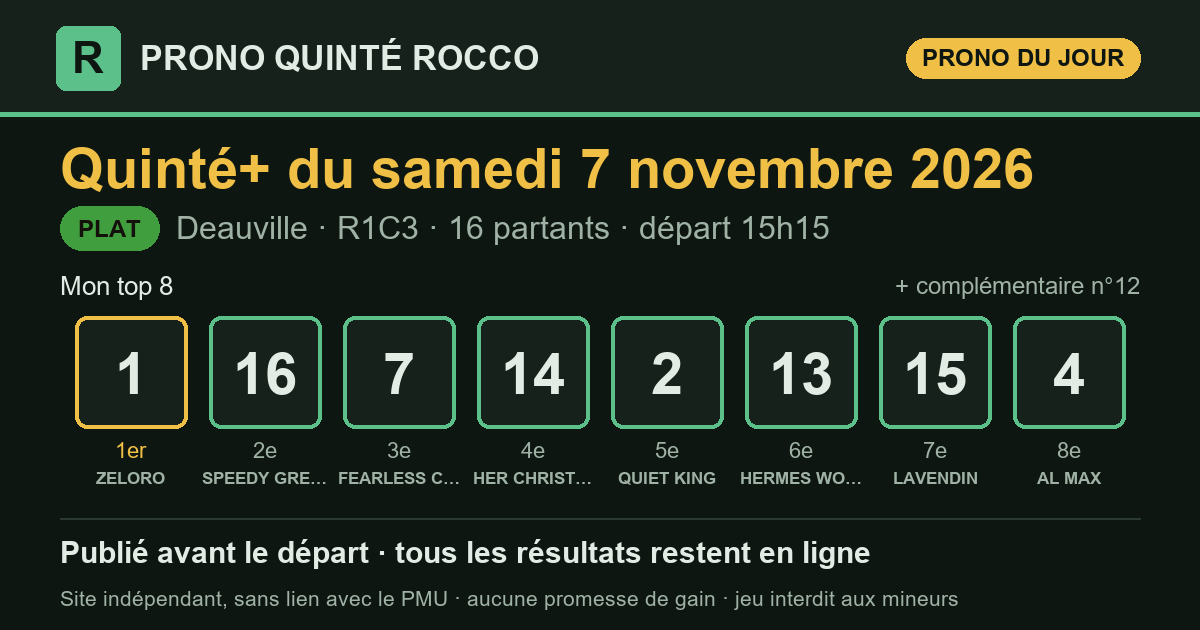
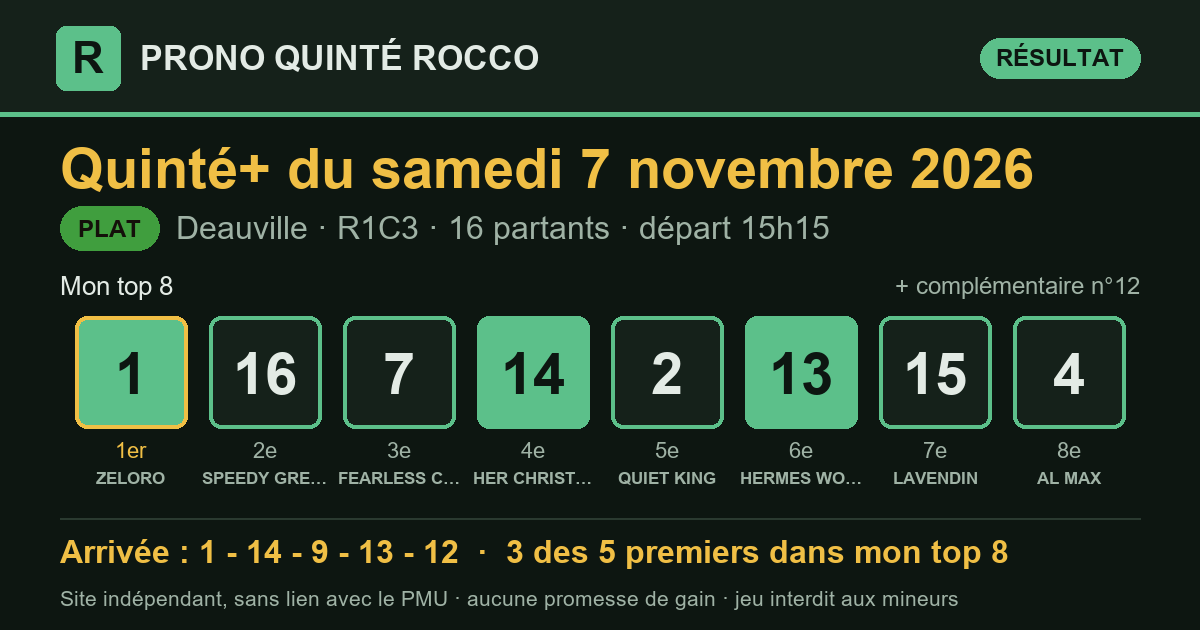
Prono Quinté+ 2026-11-07 Deauville R1C3 — publié le 07/11/2026 18:46 (heure de Paris)

diff --git a/partants.html b/partants.html
@@ -3,7 +3,7 @@
 <head>
 <meta charset="utf-8">
 <meta name="viewport" content="width=device-width, initial-scale=1, viewport-fit=cover">
-<title>Partants du Quinté+ du samedi 7 novembre 2026 — Prono Quinté Rocco</title>
+<title>Partants du Quinté+ du dimanche 8 novembre 2026 — Prono Quinté Rocco</title>
 <meta name="description" content="Les partants du prochain Quinté+ (programme officiel du PMU), avec le rang de chaque cheval dans mon prono et les liens vers les pronostics de la presse.">
 <link rel="canonical" href="https://prono-quinte-rocco.fr/partants.html">
 <link rel="stylesheet" href="style.css?v=c0ffb0f4">
@@ -13,7 +13,7 @@
 <meta property="og:site_name" content="Prono Quinté Rocco">
 <meta property="og:locale" content="fr_FR">
 <meta property="og:type" content="website">
-<meta property="og:title" content="Partants du Quinté+ du samedi 7 novembre 2026 — Prono Quinté Rocco">
+<meta property="og:title" content="Partants du Quinté+ du dimanche 8 novembre 2026 — Prono Quinté Rocco">
 <meta property="og:description" content="Les partants du prochain Quinté+ (programme officiel du PMU), avec le rang de chaque cheval dans mon prono et les liens vers les pronostics de la presse.">
 <meta property="og:url" content="https://prono-quinte-rocco.fr/partants.html">
 <meta name="twitter:card" content="summary">
@@ -29,100 +29,100 @@
   <p class="surtitre">Programme officiel du PMU</p>
   <h1>Les partants du prochain Quinté+</h1>
   <div class="fiche-course">
-    <p class="fiche-date">Samedi 7 novembre 2026</p>
-    <div class="fiche-rc"><span class="pastille" title="Réunion 1">R1</span><span class="pastille" title="Course 3">C3</span><span class="fiche-nom">Prix de l&#x27;Operation Epsom</span></div>
-    <p class="meta"><span class="type t-plat">Plat</span>Deauville · 1 900 m · 16 partants</p>
+    <p class="fiche-date">Dimanche 8 novembre 2026</p>
+    <div class="fiche-rc"><span class="pastille" title="Réunion 1">R1</span><span class="pastille" title="Course 5">C5</span><span class="fiche-nom">Prix Sagaro</span></div>
+    <p class="meta"><span class="type t-plat">Plat</span>Saint-Cloud · 3 100 m · 15 partants</p>
     <p class="fiche-depart">Départ <b>15:15</b> <span>heure de Paris</span></p>
   </div>
   <p class="surtitre">Les pronostics ailleurs sur le web</p>
-  <div class="liens"><a class="lien-ext" href="https://www.turfoo.fr/programmes-courses/261107/reunion1-deauville/course3-prix-de-l-operation-epsom/pronostics-presse/" rel="noopener" target="_blank"><b>Les pronostics de la presse →</b><span>sur Turfoo (site extérieur)</span></a><a class="lien-ext" href="https://www.geny.com/programme/2026-11-07" rel="noopener" target="_blank"><b>Partants et pronostics →</b><span>programme du jour sur Geny (site extérieur)</span></a></div>
+  <div class="liens"><a class="lien-ext" href="https://www.turfoo.fr/programmes-courses/261108/reunion1-saint-cloud/course5-prix-sagaro/pronostics-presse/" rel="noopener" target="_blank"><b>Les pronostics de la presse →</b><span>sur Turfoo (site extérieur)</span></a><a class="lien-ext" href="https://www.geny.com/programme/2026-11-08" rel="noopener" target="_blank"><b>Partants et pronostics →</b><span>programme du jour sur Geny (site extérieur)</span></a></div>
   <div class="liste-boite"><table class="liste-partants">
     <thead><tr><th>N°</th><th>Cheval</th><th class="cote"><span class="long">Cote du matin</span><span class="court">Cote</span></th>
     <th class="ia"><span class="long">Mon prono</span><span class="court">Prono</span></th></tr></thead>
     <tbody><tr>
   <td><span class="tapis petit">1</span></td>
-  <td><span class="cheval">ZELORO</span><span class="sous">M.GUYON · P&amp;J.BRANDT (S)</span></td>
-  <td class="cote num">3,0</td>
-  <td class="ia"><span class="etat place">1<sup>er</sup></span></td>
+  <td><span class="cheval">DON&#x27;T SHUT ME DOWN</span><span class="sous">M.GUYON · P&amp;J.BRANDT (S)</span></td>
+  <td class="cote num">—</td>
+  <td class="ia">—</td>
 </tr><tr>
   <td><span class="tapis petit">2</span></td>
-  <td><span class="cheval">QUIET KING</span><span class="sous">T.BACHELOT · S.WATTEL (S)</span></td>
-  <td class="cote num">9,2</td>
-  <td class="ia"><span class="etat place">5<sup>e</sup></span></td>
+  <td><span class="cheval">HOMO DEUS</span><span class="sous">PC.BOUDOT · H.GHABRI</span></td>
+  <td class="cote num">—</td>
+  <td class="ia">—</td>
 </tr><tr>
   <td><span class="tapis petit">3</span></td>
-  <td><span class="cheval">HUMAN EVOLUTION</span><span class="sous">M.PROTTI · HA.PANTALL (S)</span></td>
-  <td class="cote num">30,0</td>
+  <td><span class="cheval">BLACK SAXON</span><span class="sous">A.MADAMET · N.BELLANGER (S)</span></td>
+  <td class="cote num">—</td>
   <td class="ia">—</td>
 </tr><tr>
   <td><span class="tapis petit">4</span></td>
-  <td><span class="cheval">AL MAX</span><span class="sous">A.LEMAITRE · P.DECOUZ (S)</span></td>
-  <td class="cote num">11,0</td>
-  <td class="ia"><span class="etat place">8<sup>e</sup></span></td>
+  <td><span class="cheval">MISTER GATZ</span><span class="sous">S.PASQUIER · S.NIGGE (S)</span></td>
+  <td class="cote num">—</td>
+  <td class="ia">—</td>
 </tr><tr>
   <td><span class="tapis petit">5</span></td>
-  <td><span class="cheval">OPALUS ROAD</span><span class="sous">L.PLOMMEE · JM.BEGUIGNE</span></td>
-  <td class="cote num">54,0</td>
+  <td><span class="cheval">A BEAUREGARD</span><span class="sous">D.PROVOST · M.CESANDRI (S)</span></td>
+  <td class="cote num">—</td>
   <td class="ia">—</td>
 </tr><tr>
   <td><span class="tapis petit">6</span></td>
-  <td><span class="cheval">PIQUOISEAU</span><span class="sous">S.PASQUIER · D.ARTU (S)</span></td>
-  <td class="cote num">17,0</td>
+  <td><span class="cheval">MON RICIN</span><span class="sous">A.LEMAITRE · TIM.DONWORTH (S)</span></td>
+  <td class="cote num">—</td>
   <td class="ia">—</td>
 </tr><tr>
   <td><span class="tapis petit">7</span></td>
-  <td><span class="cheval">FEARLESS CHEETAH</span><span class="sous">J.CLAUDIC · F.BRESSON (S)</span></td>
-  <td class="cote num">11,0</td>
-  <td class="ia"><span class="etat place">3<sup>e</sup></span></td>
+  <td><span class="cheval">ORAGEUX</span><span class="sous">M.BARZALONA · J.REYNIER (S)</span></td>
+  <td class="cote num">—</td>
+  <td class="ia">—</td>
 </tr><tr>
   <td><span class="tapis petit">8</span></td>
-  <td><span class="cheval">WEDGEWOOD PEARL</span><span class="sous">A.MOLINS · P.CHEVIGNY DE</span></td>
-  <td class="cote num">48,0</td>
+  <td><span class="cheval">RAM SEA</span><span class="sous">L.BRECHET · D.MELE (S)</span></td>
+  <td class="cote num">—</td>
   <td class="ia">—</td>
 </tr><tr>
   <td><span class="tapis petit">9</span></td>
-  <td><span class="cheval">EAST GREY</span><span class="sous">M.FAVRIAUX · E.LIBAUD (S)</span></td>
-  <td class="cote num">24,0</td>
+  <td><span class="cheval">PAOLINO</span><span class="sous">A.HAMELIN · D&amp;P.PROD&#x27;HOMME (S)</span></td>
+  <td class="cote num">—</td>
   <td class="ia">—</td>
 </tr><tr>
   <td><span class="tapis petit">10</span></td>
-  <td><span class="cheval">ALLURRE</span><span class="sous">A.MADAMET · M.CESANDRI (S)</span></td>
-  <td class="cote num">27,0</td>
+  <td><span class="cheval">DARK ROCKSTER</span><span class="sous">C.LECOEUVRE · S.WATTEL (S)</span></td>
+  <td class="cote num">—</td>
   <td class="ia">—</td>
 </tr><tr>
   <td><span class="tapis petit">11</span></td>
-  <td><span class="cheval">CICCIO BOY</span><span class="sous">M.JUSTUM · M.JUSTUM</span></td>
-  <td class="cote num">24,0</td>
+  <td><span class="cheval">DEMPY</span><span class="sous">C.SOUMILLON · D.BONILLA (S)</span></td>
+  <td class="cote num">—</td>
   <td class="ia">—</td>
 </tr><tr>
   <td><span class="tapis petit">12</span></td>
-  <td><span class="cheval">ALMAROMY</span><span class="sous">A.CRASTUS · D.BONILLA (S)</span></td>
-  <td class="cote num">17,0</td>
-  <td class="ia"><span class="etat place">compl.</span></td>
+  <td><span class="cheval">LUCIO VERO</span><span class="sous">A.MEKOUCHE · R.AVIAL LOPEZ</span></td>
+  <td class="cote num">—</td>
+  <td class="ia">—</td>
 </tr><tr>
   <td><span class="tapis petit">13</span></td>
-  <td><span class="cheval">HERMES WOOD</span><span class="sous">E.HARDOUIN · C.FEY (S)</span></td>
-  <td class="cote num">13,0</td>
-  <td class="ia"><span class="etat place">6<sup>e</sup></span></td>
+  <td><span class="cheval">GARVEY</span><span class="sous">E.HARDOUIN · MME E.MADER</span></td>
+  <td class="cote num">—</td>
+  <td class="ia">—</td>
 </tr><tr>
   <td><span class="tapis petit">14</span></td>
-  <td><span class="cheval">HER CHRISTOPHER</span><span class="sous">D.PROVOST · M.CESANDRI (S)</span></td>
-  <td class="cote num">19,0</td>
-  <td class="ia"><span class="etat place">4<sup>e</sup></span></td>
+  <td><span class="cheval">ZARFLIGHT</span><span class="sous">F.VERON · GAB.LEENDERS (S)</span></td>
+  <td class="cote num">—</td>
+  <td class="ia">—</td>
 </tr><tr>
   <td><span class="tapis petit">15</span></td>
-  <td><span class="cheval">LAVENDIN</span><span class="sous">H.LEBOUC · A.FOUASSIER</span></td>
-  <td class="cote num">20,0</td>
-  <td class="ia"><span class="etat place">7<sup>e</sup></span></td>
-</tr><tr>
+  <td><span class="cheval">GOOD TO SEE YOU</span><span class="sous">A.CRASTUS · MME A.WATTEL</span></td>
+  <td class="cote num">—</td>
+  <td class="ia">—</td>
+</tr><tr class="np">
   <td><span class="tapis petit">16</span></td>
-  <td><span class="cheval">SPEEDY GREEN</span><span class="sous">C.GROSBOIS · D.BONILLA (S)</span></td>
-  <td class="cote num">14,0</td>
-  <td class="ia"><span class="etat place">2<sup>e</sup></span></td>
+  <td><span class="cheval">SEEYOUGO</span><span class="sous">NON PARTANT · MME J.LE STANG</span></td>
+  <td class="cote num">NP</td>
+  <td class="ia">—</td>
 </tr></tbody>
   </table></div>
-  <p class="meta">La colonne « Mon prono » donne le rang de chaque cheval dans mon top 8, tel qu&#x27;il est publié sur ce site. Sous chaque cheval : jockey · entraîneur. Partants et cotes : programme
-  officiel du PMU, lu le 07/11 à 11:21 (heure de Paris). NP = non-partant.</p>
+  <p class="meta">Mon prono de cette course sera publié le matin de la course, avant le départ. Sous chaque cheval : jockey · entraîneur. Partants et cotes : programme
+  officiel du PMU, lu le 07/11 à 18:46 (heure de Paris). NP = non-partant.</p>
 </section>
 </main>
 <footer class="pied">

diff --git a/index.html b/index.html
@@ -16,7 +16,7 @@
 <meta property="og:title" content="Pronostic Quinté+ du samedi 7 novembre 2026 — Prono Quinté Rocco">
 <meta property="og:description" content="Pronostic Quinté+ du jour : mon top 8, publié avant le départ, puis tous les résultats et le rendement réel.">
 <meta property="og:url" content="https://prono-quinte-rocco.fr/">
-<meta property="og:image" content="https://prono-quinte-rocco.fr/partage/2026-11-07.png?v=88376c3a">
+<meta property="og:image" content="https://prono-quinte-rocco.fr/partage/2026-11-07.png?v=876ce482">
 <meta property="og:image:type" content="image/png">
 <meta property="og:image:width" content="1200">
 <meta property="og:image:height" content="630">
@@ -31,7 +31,7 @@
 </header>
 <main>
 <section class="une" aria-labelledby="t-jour">
-  <p class="surtitre">Quinté+ du jour</p>
+  <p class="surtitre">Dernier Quinté+</p>
   <h1 id="t-jour">Le prono du Quinté+, résultats compris</h1>
   <p class="chapo">Chaque matin, j'étudie les partants du Quinté+ avec le logiciel que
   j'ai conçu, selon ma propre méthode, qu'une intelligence artificielle m'aide à
@@ -42,10 +42,13 @@
   <p class="meta">Deauville · <strong>R1C3</strong> · 16 partants · <span class="lisib">lisibilité <span class="note" aria-label="note 2 sur 5" title="lisibilité 2/5 : course ouverte"><i class="on"></i><i class="on"></i><i class=""></i><i class=""></i><i class=""></i></span> 2/5</span></p>
   <div class="zone-prono">
     <h3 class="zone-titre">Mon top 8</h3>
-    <ol class="partants" aria-label="Mon top 8"><li><span class="rang">1<sup>er</sup></span><span class="tapis ">1</span><span class="nom">ZELORO</span></li><li><span class="rang">2<sup>e</sup></span><span class="tapis ">16</span><span class="nom">SPEEDY GREEN</span></li><li><span class="rang">3<sup>e</sup></span><span class="tapis ">7</span><span class="nom">FEARLESS CHEETAH</span></li><li><span class="rang">4<sup>e</sup></span><span class="tapis ">14</span><span class="nom">HER CHRISTOPHER</span></li><li><span class="rang">5<sup>e</sup></span><span class="tapis ">2</span><span class="nom">QUIET KING</span></li><li><span class="rang">6<sup>e</sup></span><span class="tapis ">13</span><span class="nom">HERMES WOOD</span></li><li><span class="rang">7<sup>e</sup></span><span class="tapis ">15</span><span class="nom">LAVENDIN</span></li><li><span class="rang">8<sup>e</sup></span><span class="tapis ">4</span><span class="nom">AL MAX</span></li><li><span class="rang">compl.</span><span class="tapis creux">12</span><span class="nom">ALMAROMY</span></li></ol>
+    <ol class="partants" aria-label="Mon top 8"><li><span class="rang">1<sup>er</sup></span><span class="tapis plein">1</span><span class="nom">ZELORO</span></li><li><span class="rang">2<sup>e</sup></span><span class="tapis ">16</span><span class="nom">SPEEDY GREEN</span></li><li><span class="rang">3<sup>e</sup></span><span class="tapis ">7</span><span class="nom">FEARLESS CHEETAH</span></li><li><span class="rang">4<sup>e</sup></span><span class="tapis plein">14</span><span class="nom">HER CHRISTOPHER</span></li><li><span class="rang">5<sup>e</sup></span><span class="tapis ">2</span><span class="nom">QUIET KING</span></li><li><span class="rang">6<sup>e</sup></span><span class="tapis plein">13</span><span class="nom">HERMES WOOD</span></li><li><span class="rang">7<sup>e</sup></span><span class="tapis ">15</span><span class="nom">LAVENDIN</span></li><li><span class="rang">8<sup>e</sup></span><span class="tapis ">4</span><span class="nom">AL MAX</span></li><li><span class="rang">compl.</span><span class="tapis creux plein">12</span><span class="nom">ALMAROMY</span></li></ol>
     <div class="pied-carte"><span>Analysé le 07/11 à 11:19 · en ligne le 07/11 à 11:21 · départ à 15:15 (heure de Paris)</span><span><a href="quinte/2026-11-07.html">Détail de la course</a></span></div>
   </div>
-  <div class="zone-arrivee attente"><p>L'arrivée officielle s'affichera ici après la course.</p></div>
+  <div class="zone-arrivee">
+    <div class="zone-tete"><h3 class="zone-titre">Arrivée officielle</h3><span class="etat non">3 des 5 premiers dans mon top 8</span><span class="etat gagne">mon 1er (n°1) : gagnant</span></div>
+    <ol class="partants" aria-label="Arrivée officielle"><li><span class="rang">1<sup>er</sup></span><span class="tapis plein">1</span><span class="nom">ZELORO</span></li><li><span class="rang">2<sup>e</sup></span><span class="tapis plein">14</span><span class="nom">HER CHRISTOPHER</span></li><li><span class="rang">3<sup>e</sup></span><span class="tapis hors">9</span><span class="nom">EAST GREY</span></li><li><span class="rang">4<sup>e</sup></span><span class="tapis plein">13</span><span class="nom">HERMES WOOD</span></li><li><span class="rang">5<sup>e</sup></span><span class="tapis creux plein">12</span><span class="nom">ALMAROMY</span></li></ol>
+  </div>
 </article>
 </section>
 <section class="suivre" aria-label="Suivre et soutenir">
@@ -75,7 +78,7 @@
 </section>
 <section class="bilan" aria-labelledby="t-bilan">
   <h2 id="t-bilan">Mon bilan depuis le 8 septembre 2026</h2>
-  <div class="tableau chiffres"><div class="case"><span class="gros ">73 %</span><span class="lib">des arrivants trouvés dans mon top 8</span><span class="ref">un top 8 tiré au hasard : 51 %</span></div><div class="case"><span class="gros ">88 %</span><span class="lib">des gagnants présents dans mon top 8</span><span class="ref"></span></div><div class="case"><span class="gros ">47 %</span><span class="lib">mon 1er placé</span><span class="ref">sur 59 Quintés</span></div><div class="case"><span class="gros perte">0,88 €</span><span class="lib">rendus pour 1 € joué placé sur mon 1er</span><span class="ref">rapports officiels PMU</span></div><div class="case"><span class="gros perte">0,45 €</span><span class="lib">rendus pour 1 € joué en Quinté+ combiné sur mon top 8</span><span class="ref">56 combinaisons, rapports PMU.fr, sur 59 Quintés</span></div></div>
+  <div class="tableau chiffres"><div class="case"><span class="gros ">73 %</span><span class="lib">des arrivants trouvés dans mon top 8</span><span class="ref">un top 8 tiré au hasard : 51 %</span></div><div class="case"><span class="gros ">88 %</span><span class="lib">des gagnants présents dans mon top 8</span><span class="ref"></span></div><div class="case"><span class="gros ">47 %</span><span class="lib">mon 1er placé</span><span class="ref">sur 59 Quintés</span></div><div class="case"><span class="gros perte">0,88 €</span><span class="lib">rendus pour 1 € joué placé sur mon 1er</span><span class="ref">rapports officiels PMU</span></div><div class="case"><span class="gros perte">0,44 €</span><span class="lib">rendus pour 1 € joué en Quinté+ combiné sur mon top 8</span><span class="ref">56 combinaisons, rapports PMU.fr, sur 60 Quintés</span></div></div>
   <p class="avertissement">Moins de 1 € rendu pour 1 € joué : suivre mon prono à la lettre fait <strong>perdre de l'argent</strong> sur cette période. Il sert à analyser une course, pas à promettre un gain.</p>
 </section>
 </main>

diff --git a/quinte/2026-11-07.html b/quinte/2026-11-07.html
@@ -16,7 +16,7 @@
 <meta property="og:title" content="Pronostic Quinté+ du samedi 7 novembre 2026 à Deauville — Prono Quinté Rocco">
 <meta property="og:description" content="Prono Quinté+ du samedi 7 novembre 2026 (Deauville) : mon top 8, l&#x27;arrivée officielle et les rapports PMU.fr.">
 <meta property="og:url" content="https://prono-quinte-rocco.fr/quinte/2026-11-07.html">
-<meta property="og:image" content="https://prono-quinte-rocco.fr/partage/2026-11-07.png?v=88376c3a">
+<meta property="og:image" content="https://prono-quinte-rocco.fr/partage/2026-11-07.png?v=876ce482">
 <meta property="og:image:type" content="image/png">
 <meta property="og:image:width" content="1200">
 <meta property="og:image:height" content="630">
@@ -35,15 +35,25 @@
   <h1>Pronostic Quinté+ du samedi 7 novembre 2026</h1>
   <p class="chapo">Deauville · R1C3 · Plat · 16 partants</p>
   <article class="carte-course">
-  <div class="tete"><h2>Mon prono</h2><span class="type t-plat">Plat</span></div>
+  <div class="tete"><h2>Mon prono et l&#x27;arrivée officielle</h2><span class="type t-plat">Plat</span></div>
   <p class="meta">Deauville · <strong>R1C3</strong> · 16 partants · <span class="lisib">lisibilité <span class="note" aria-label="note 2 sur 5" title="lisibilité 2/5 : course ouverte"><i class="on"></i><i class="on"></i><i class=""></i><i class=""></i><i class=""></i></span> 2/5</span></p>
   <div class="zone-prono">
     <h3 class="zone-titre">Mon top 8</h3>
-    <ol class="partants" aria-label="Mon top 8"><li><span class="rang">1<sup>er</sup></span><span class="tapis ">1</span><span class="nom">ZELORO</span></li><li><span class="rang">2<sup>e</sup></span><span class="tapis ">16</span><span class="nom">SPEEDY GREEN</span></li><li><span class="rang">3<sup>e</sup></span><span class="tapis ">7</span><span class="nom">FEARLESS CHEETAH</span></li><li><span class="rang">4<sup>e</sup></span><span class="tapis ">14</span><span class="nom">HER CHRISTOPHER</span></li><li><span class="rang">5<sup>e</sup></span><span class="tapis ">2</span><span class="nom">QUIET KING</span></li><li><span class="rang">6<sup>e</sup></span><span class="tapis ">13</span><span class="nom">HERMES WOOD</span></li><li><span class="rang">7<sup>e</sup></span><span class="tapis ">15</span><span class="nom">LAVENDIN</span></li><li><span class="rang">8<sup>e</sup></span><span class="tapis ">4</span><span class="nom">AL MAX</span></li><li><span class="rang">compl.</span><span class="tapis creux">12</span><span class="nom">ALMAROMY</span></li></ol>
+    <ol class="partants" aria-label="Mon top 8"><li><span class="rang">1<sup>er</sup></span><span class="tapis plein">1</span><span class="nom">ZELORO</span></li><li><span class="rang">2<sup>e</sup></span><span class="tapis ">16</span><span class="nom">SPEEDY GREEN</span></li><li><span class="rang">3<sup>e</sup></span><span class="tapis ">7</span><span class="nom">FEARLESS CHEETAH</span></li><li><span class="rang">4<sup>e</sup></span><span class="tapis plein">14</span><span class="nom">HER CHRISTOPHER</span></li><li><span class="rang">5<sup>e</sup></span><span class="tapis ">2</span><span class="nom">QUIET KING</span></li><li><span class="rang">6<sup>e</sup></span><span class="tapis plein">13</span><span class="nom">HERMES WOOD</span></li><li><span class="rang">7<sup>e</sup></span><span class="tapis ">15</span><span class="nom">LAVENDIN</span></li><li><span class="rang">8<sup>e</sup></span><span class="tapis ">4</span><span class="nom">AL MAX</span></li><li><span class="rang">compl.</span><span class="tapis creux plein">12</span><span class="nom">ALMAROMY</span></li></ol>
     <div class="pied-carte"><span>Analysé le 07/11 à 11:19 · en ligne le 07/11 à 11:21 · départ à 15:15 (heure de Paris)</span><span></span></div>
   </div>
-  <div class="zone-arrivee attente"><p>L'arrivée officielle s'affichera ici après la course.</p></div>
+  <div class="zone-arrivee">
+    <div class="zone-tete"><h3 class="zone-titre">Arrivée officielle</h3><span class="etat non">3 des 5 premiers dans mon top 8</span><span class="etat gagne">mon 1er (n°1) : gagnant</span></div>
+    <ol class="partants" aria-label="Arrivée officielle"><li><span class="rang">1<sup>er</sup></span><span class="tapis plein">1</span><span class="nom">ZELORO</span></li><li><span class="rang">2<sup>e</sup></span><span class="tapis plein">14</span><span class="nom">HER CHRISTOPHER</span></li><li><span class="rang">3<sup>e</sup></span><span class="tapis hors">9</span><span class="nom">EAST GREY</span></li><li><span class="rang">4<sup>e</sup></span><span class="tapis plein">13</span><span class="nom">HERMES WOOD</span></li><li><span class="rang">5<sup>e</sup></span><span class="tapis creux plein">12</span><span class="nom">ALMAROMY</span></li></ol>
+  </div>
 </article>
+<section class="carte-course rapports" aria-labelledby="t-rap">
+  <div class="tete"><h2 id="t-rap">Les rapports</h2></div>
+  <div class="deux">
+    <div><h3>Ce qu'aurait rendu mon prono</h3><dl class="kv"><dt>1 € placé sur mon 1er (n°1)</dt><dd>rapport manquant</dd><dt>1 € gagnant sur mon 1er</dt><dd>rapport manquant</dd><dt>Quinté+ combiné sur mon top 8 (mise 112 €)</dt><dd class="perte">0,00 €</dd><dt>dont</dt><dd>aucun gain</dd></dl></div>
+    <div><h3>Rapports officiels</h3><dl class="kv"><dt>e-Quinté+ Ordre (2 €)</dt><dd>33 934,00 €</dd><dt>e-Quinté+ Désordre (2 €)</dt><dd>343,60 €</dd><dt>e-Bonus 4sur5 (2 €)</dt><dd>11,40 €</dd><dt>e-Bonus 3 (2 €)</dt><dd>9,20 €</dd></dl></div>
+  </div>
+</section>
 </section>
 </main>
 <footer class="pied">

diff --git a/resultats.html b/resultats.html
@@ -47,12 +47,12 @@
     <th colspan="4" class="res g-res">Le résultat officiel</th></tr>
     <tr><th>Date</th><th>Course</th><th>Top 8</th><th class="c-lis">Lisibilité</th><th class="res c-arr">Arrivée</th>
     <th class="res">Trouvés</th><th class="res">Mon 1er</th><th class="res mont">Quinté+ top 8<br><small>(mise 112 €)</small></th></tr></thead>
-    <tbody><tr class="attente">
+    <tbody><tr>
   <td class="c-date"><a href="quinte/2026-11-07.html">07/11</a></td>
   <td class="c-course">Deauville<br><span class="meta">R1C3</span><span class="type t-plat petit">Plat</span></td>
-  <td class="c-top8" data-label="Mon top 8"><div class="rangee"><span class="tapis petit">1</span><span class="tapis petit">16</span><span class="tapis petit">7</span><span class="tapis petit">14</span><span class="tapis petit">2</span><span class="tapis petit">13</span><span class="tapis petit">15</span><span class="tapis petit">4</span></div></td>
+  <td class="c-top8" data-label="Mon top 8"><div class="rangee"><span class="tapis plein petit">1</span><span class="tapis petit">16</span><span class="tapis petit">7</span><span class="tapis plein petit">14</span><span class="tapis petit">2</span><span class="tapis plein petit">13</span><span class="tapis petit">15</span><span class="tapis petit">4</span></div></td>
   <td class="c-lis" data-label="Lisibilité"><span class="note" aria-label="note 2 sur 5" title="lisibilité 2/5 : course ouverte"><i class="on"></i><i class="on"></i><i class=""></i><i class=""></i><i class=""></i></span> 2/5</td>
-  <td class="res c-arr" data-label="Arrivée"><span class="etat attente">en attente</span></td><td class="res num c-trouves" data-label="Trouvés">—</td><td class="res c-premier" data-label="Mon 1er"><span class="etat attente">—</span></td><td class="res mont c-mont" data-label="Quinté+ top 8 (mise 112 €)">—</td>
+  <td class="res c-arr" data-label="Arrivée"><div class="rangee"><span class="tapis plein petit" title="1er">1</span><span class="tapis plein petit" title="2e">14</span><span class="tapis hors petit" title="3e">9</span><span class="tapis plein petit" title="4e">13</span><span class="tapis hors petit" title="5e">12</span></div></td><td class="res num c-trouves" data-label="Trouvés">3/5</td><td class="res c-premier" data-label="Mon 1er"><span class="etat gagne">gagnant</span></td><td class="res mont c-mont perte" data-label="Quinté+ top 8 (mise 112 €)" title="perte nette : 112,00 €">0,00 €</td>
 </tr><tr>
   <td class="c-date"><a href="quinte/2026-11-06.html">06/11</a></td>
   <td class="c-course">Vincennes<br><span class="meta">R1C4</span><span class="type t-attele petit">Attelé</span></td>
@@ -412,7 +412,7 @@
 </section>
 <section class="bilan" aria-labelledby="t-bilan">
   <h2 id="t-bilan">Mon bilan depuis le 8 septembre 2026</h2>
-  <div class="tableau chiffres"><div class="case"><span class="gros ">73 %</span><span class="lib">des arrivants trouvés dans mon top 8</span><span class="ref">un top 8 tiré au hasard : 51 %</span></div><div class="case"><span class="gros ">88 %</span><span class="lib">des gagnants présents dans mon top 8</span><span class="ref"></span></div><div class="case"><span class="gros ">47 %</span><span class="lib">mon 1er placé</span><span class="ref">sur 59 Quintés</span></div><div class="case"><span class="gros perte">0,88 €</span><span class="lib">rendus pour 1 € joué placé sur mon 1er</span><span class="ref">rapports officiels PMU</span></div><div class="case"><span class="gros perte">0,45 €</span><span class="lib">rendus pour 1 € joué en Quinté+ combiné sur mon top 8</span><span class="ref">56 combinaisons, rapports PMU.fr, sur 59 Quintés</span></div></div>
+  <div class="tableau chiffres"><div class="case"><span class="gros ">73 %</span><span class="lib">des arrivants trouvés dans mon top 8</span><span class="ref">un top 8 tiré au hasard : 51 %</span></div><div class="case"><span class="gros ">88 %</span><span class="lib">des gagnants présents dans mon top 8</span><span class="ref"></span></div><div class="case"><span class="gros ">47 %</span><span class="lib">mon 1er placé</span><span class="ref">sur 59 Quintés</span></div><div class="case"><span class="gros perte">0,88 €</span><span class="lib">rendus pour 1 € joué placé sur mon 1er</span><span class="ref">rapports officiels PMU</span></div><div class="case"><span class="gros perte">0,44 €</span><span class="lib">rendus pour 1 € joué en Quinté+ combiné sur mon top 8</span><span class="ref">56 combinaisons, rapports PMU.fr, sur 60 Quintés</span></div></div>
   <p class="avertissement">Moins de 1 € rendu pour 1 € joué : suivre mon prono à la lettre fait <strong>perdre de l'argent</strong> sur cette période. Il sert à analyser une course, pas à promettre un gain.</p>
 </section>
 </main>
